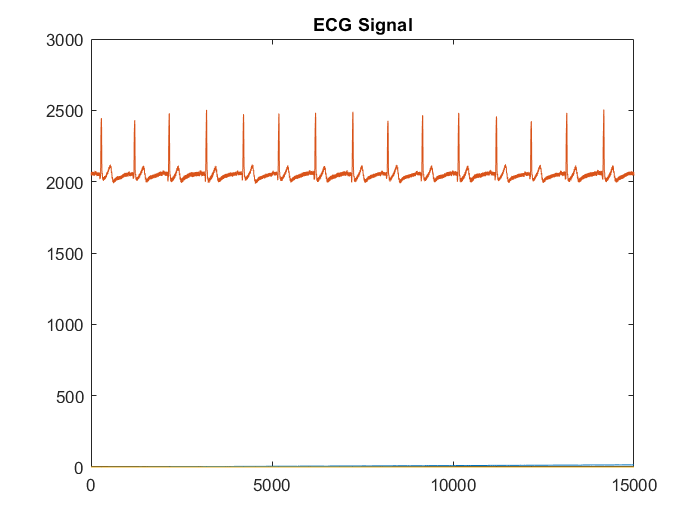
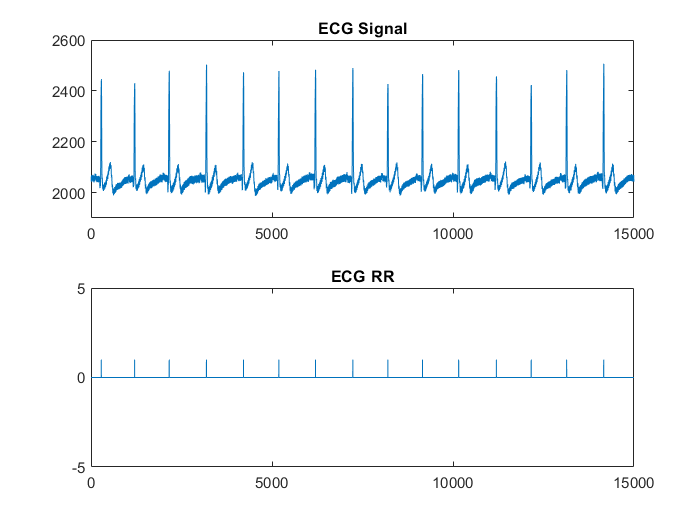
important data in separate subplots

diff --git a/prog0.m b/prog0.m
@@ -5,7 +5,12 @@ E=load('ecg_original_with_rpeaks.txt');
 
 figure('Name','ECG','NumberTitle','off');
 
-plot(E(:,:));
+subplot(2,1,1)
+plot(E(:,2))
 title('ECG Signal')
-
+ylim([1900 2600])
  
+subplot(2,1,2)
+plot(E(:,3))
+title('ECG RR')
+ylim([-5 5])

diff --git a/README.md b/README.md
@@ -3,5 +3,5 @@
 Удаление дрейфа изолинии из ЭКГ сигнала
 
 Авторы:
-
+std010
 Roman Chekhvalov 
